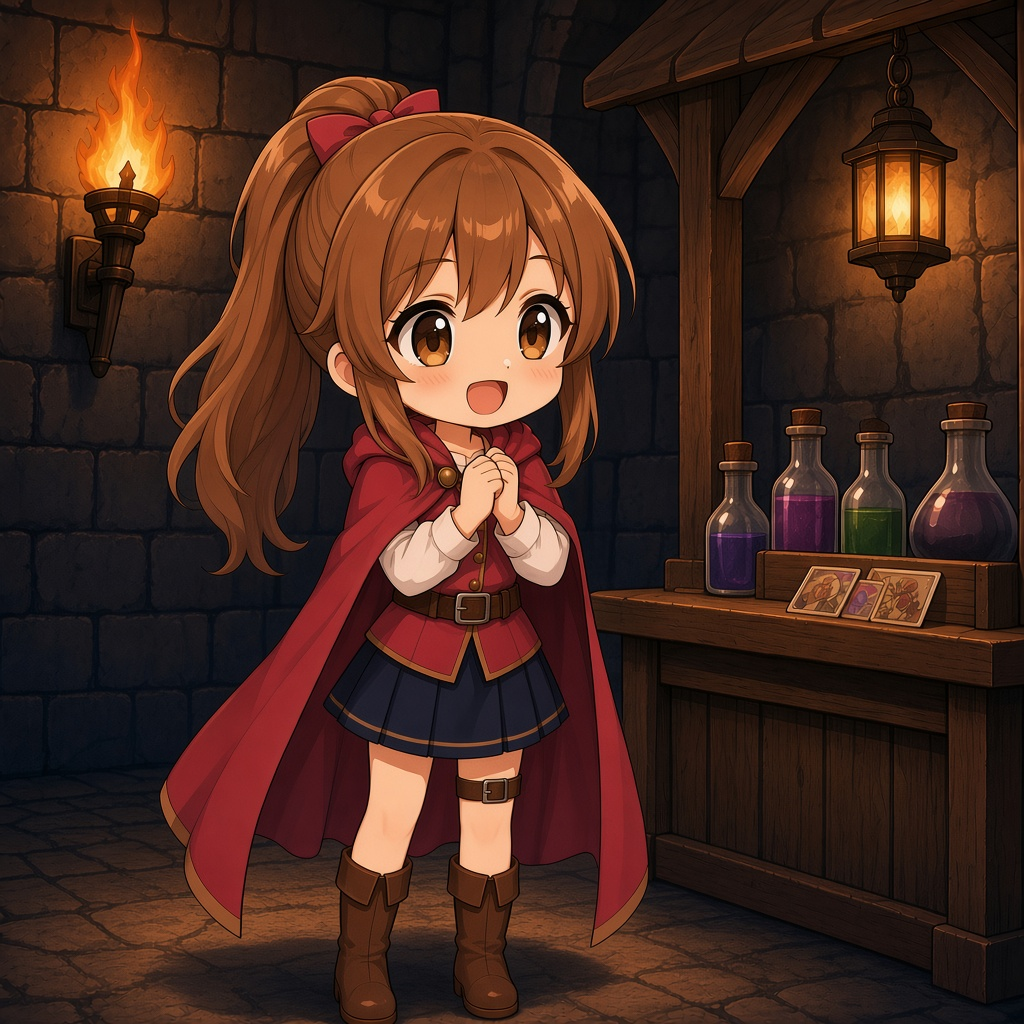
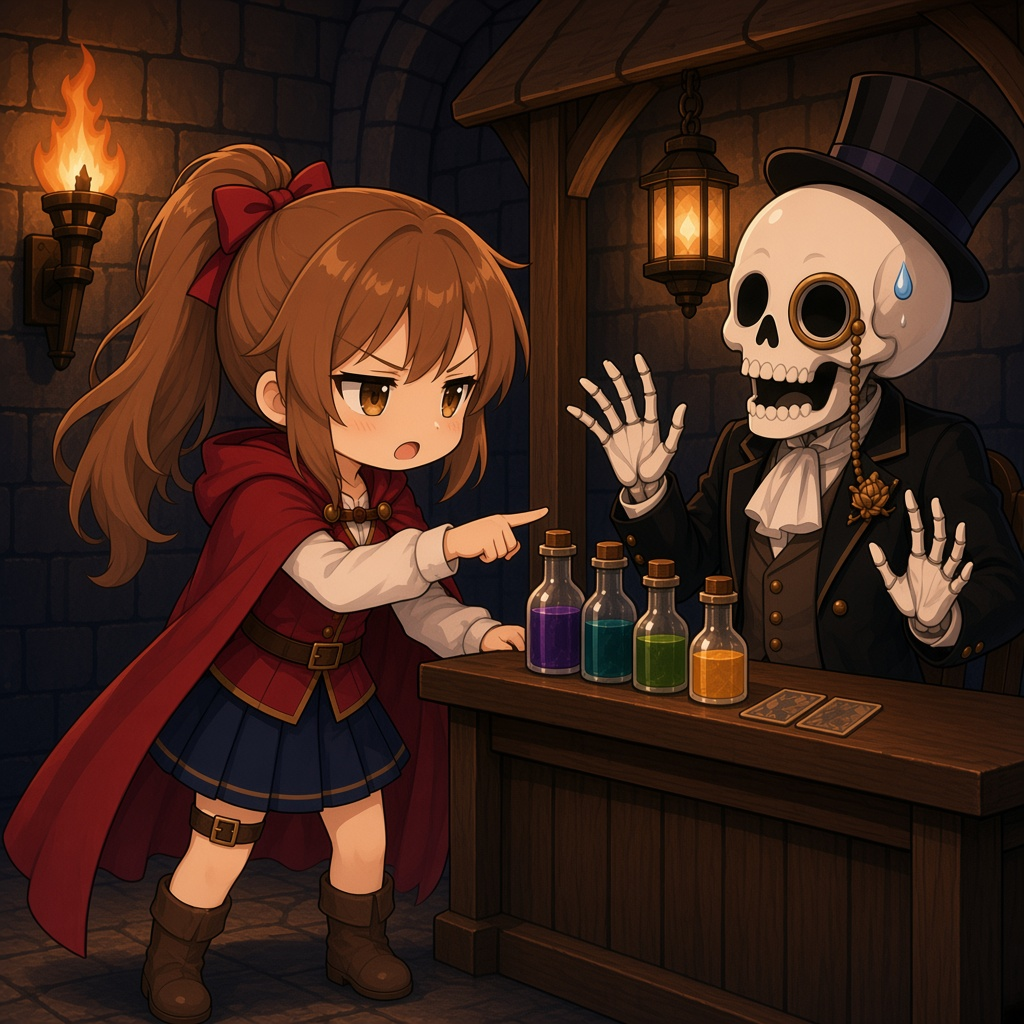
Redraw the shop path as a chibi of the shop picture.

diff --git a/index.html b/index.html
@@ -6673,7 +6673,7 @@
       if (name === "出来事:探索") return { src: "path-search.jpg?v=7", label: "探索" };
       if (name === "出来事:未知") return { src: "path-unknown.jpg?v=5", label: "遭遇" };
       if (name === "出来事:キャンプ") return { src: "path-rest.jpg?v=3", label: "休憩" };
-      if (name === "出来事:お店") return { src: "path-shop.jpg?v=6", label: "お店" };
+      if (name === "出来事:お店") return { src: "path-shop.jpg?v=7", label: "お店" };
       if (name === "出来事:物乞い") return { src: "path-beggar.jpg?v=4", label: "物乞い" };
       if (name === "出来事:ジョブ") return { src: "job-girl.png?v=14", label: "ジョブ" };
       if (name === DUNGEON.boss) return { src: "enemy-minotaur.png?v=4", label: "ボス", boss: true };
@@ -10048,7 +10048,7 @@
               ${sheetFig("path-bless.jpg?v=2", "祝福")}
               ${sheetFig("path-fight.jpg?v=5", "戦闘", "", "path-series")}
               ${sheetFig("path-beggar.jpg?v=4", "物乞い")}
-              ${sheetFig("path-shop.jpg?v=6", "お店")}
+              ${sheetFig("path-shop.jpg?v=7", "お店")}
               ${sheetFig("path-rest.jpg?v=3", "休憩")}
               ${sheetFig("path-lost.jpg?v=9", "迷子")}
               ${sheetFig("path-unknown.jpg?v=5", "遭遇")}
@@ -10895,7 +10895,7 @@
       straight: { name: "戦闘", text: "次の戦いに進む。", image: "path-fight.jpg?v=5" },
       skip: { name: "走り抜ける", text: "階層を1つ飛ばして、ゴールに近づく。", image: "path-dash.jpg?v=5" },
       detour: { name: "回り道", text: "カードと装備の報酬。戦闘が1回増える。" },
-      shop: { name: "お店", text: "★で買い物。カード2つと装備2つ。", image: "path-shop.jpg?v=6" },
+      shop: { name: "お店", text: "★で買い物。カード2つと装備2つ。", image: "path-shop.jpg?v=7" },
       camp: { name: "キャンプ", text: "体力が全快する。あとはまっすぐ進むと同じ。" },
       search: { name: "探索", text: "カード、装備、アイテムのどれか。半分で戦闘。", image: "path-search.jpg?v=7" },
       unknown: { name: "未知との遭遇", text: "左の2つ以外の出来事が起きる。戦闘もある。", image: "path-unknown.jpg?v=5" },
